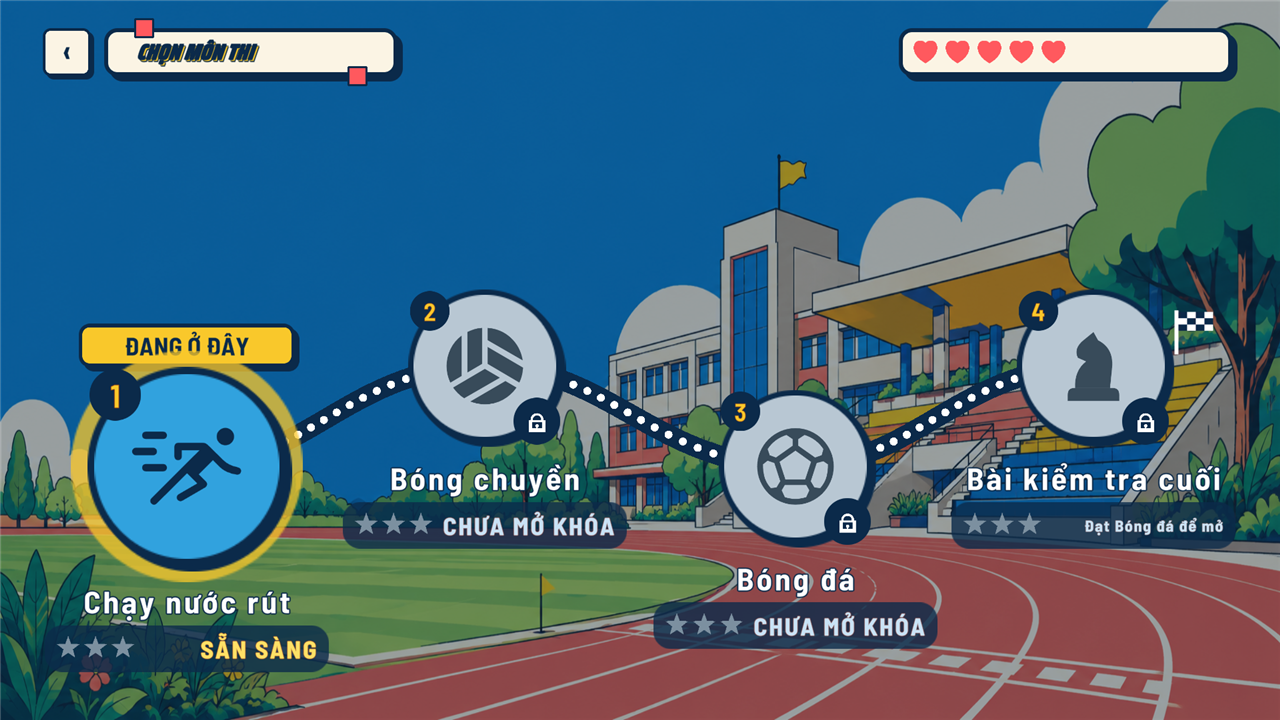
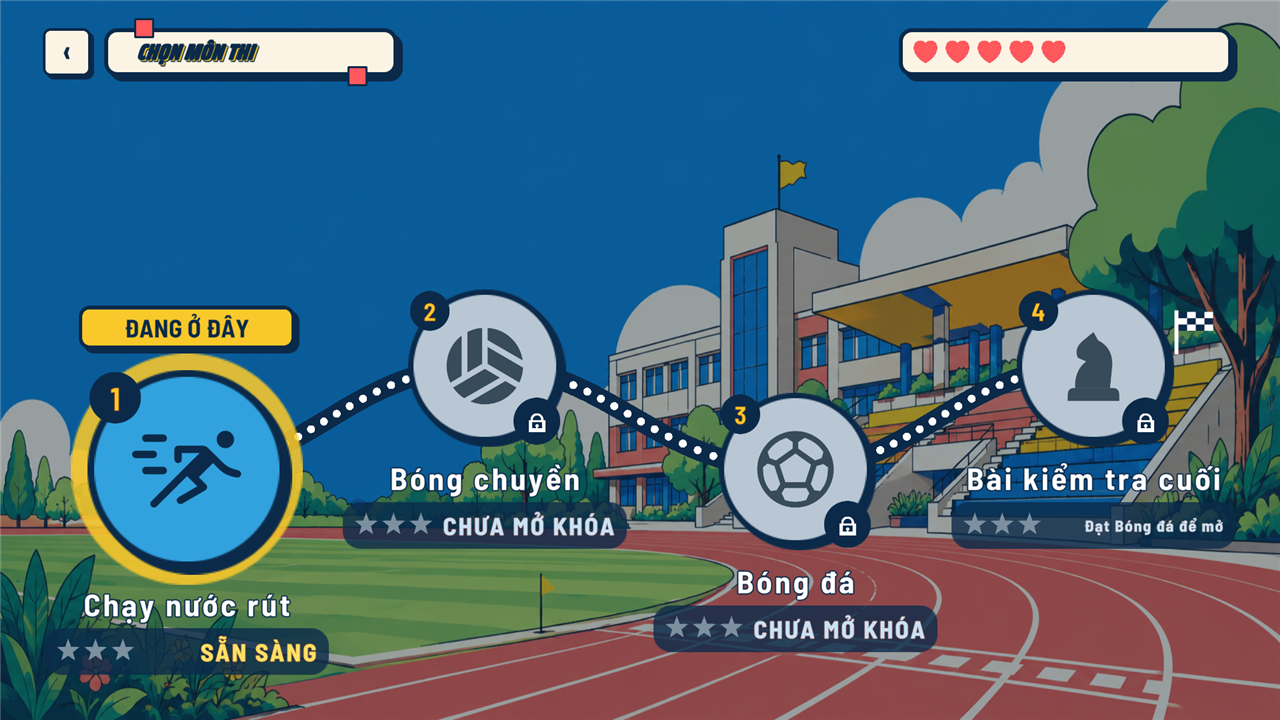
docs(qa): refresh the map captures after the tag/ring fix

diff --git a/docs/qa/shell-ui-style.md b/docs/qa/shell-ui-style.md
@@ -45,7 +45,7 @@ Checks: close glyph renders as a bold x (not a box); disabled Continue reads as 
 ## Known issues
 
 - `FrogJumpRulesTests.FasterDefaultSweepsEachEdgeInPointSevenSeconds` (EditMode) and `FrogJumpDialogueTests.FinishOnFinalLandingDoesNotQueueGoodJump` (PlayMode) fail: stale since c111cf1 changed sweepSeconds from 0.7 to 1. Unrelated to this pass.
-- Map: the "DANG O DAY" tag touches the top of the yellow glow ring around the current stop (the blue badge itself is clear). Raising `stopTagHeight` 52 to 56 and re-authoring Map produced an identical capture, so it was left at 52.
+- Map (fixed in 8e29038, re-captured 2026-10-13): the "DANG O DAY" tag now sits just above the yellow glow ring around stop 1 with a small visible gap (about 7 px at 1920x1080) instead of touching it; the stop label and star/status plate stay on screen (bottom plate ends about 70 px above the bottom edge). The lesson popup close button is fully inside the panel. Map captures above are the refreshed ones.
 - Bootstrap capture lands mid fade-in (dimmed, 25%).
 - Volleyball "DOI THU GHI DIEM" banner (yellow on light court) has low contrast; pre-existing, outside this pass.
 - Journey dialogue speaker tag sits close to the first text line; legible, left as is.
